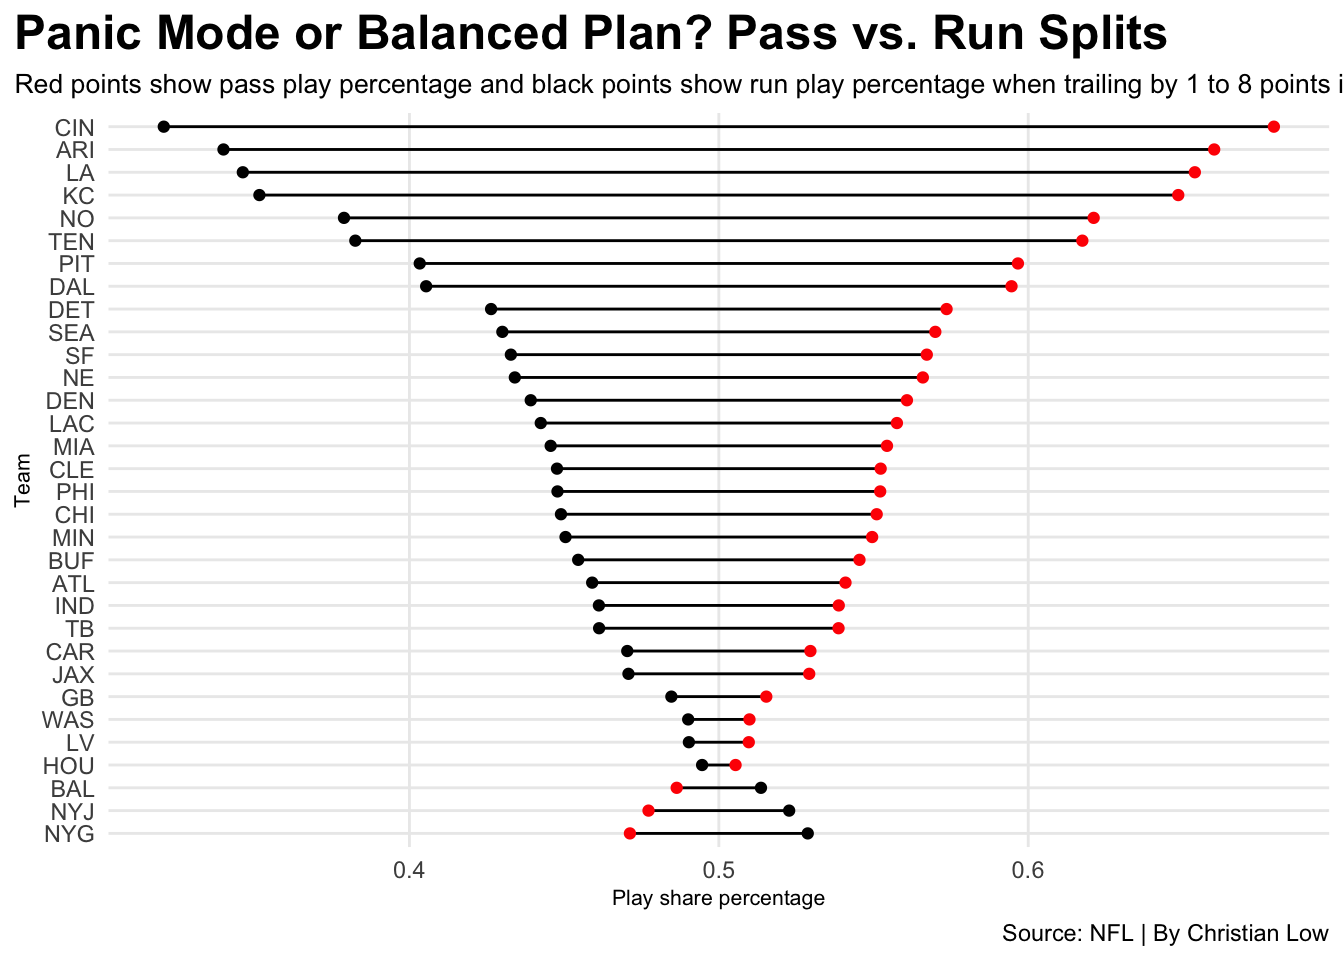
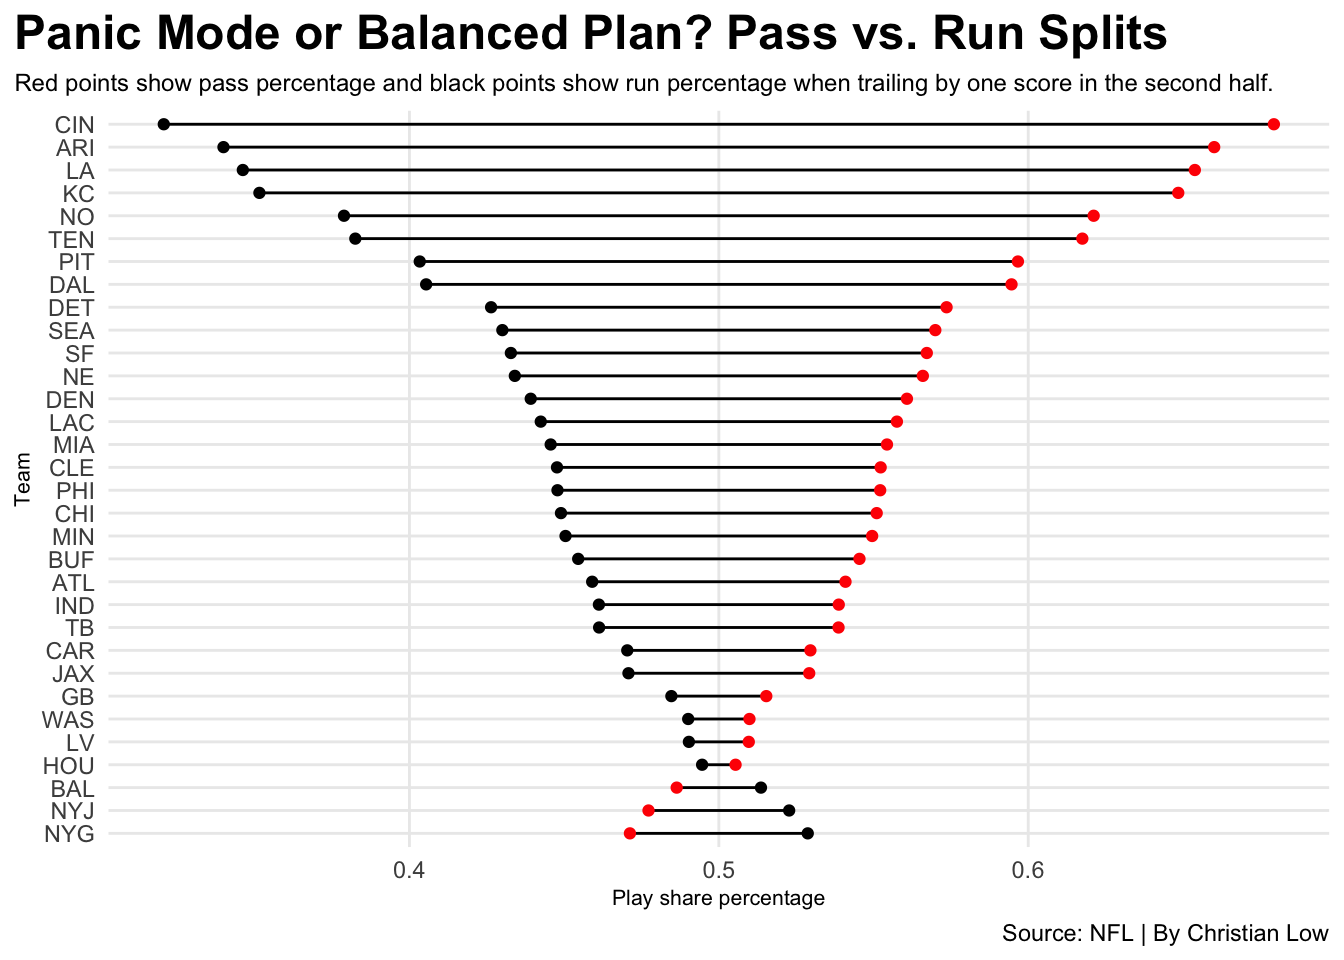
Project 1 done

Changed region(s): [[0.0, 0.0625, 1.0, 0.7812], [0.0, 0.4062, 0.0938, 0.625], [0.0312, 0.6562, 0.0625, 0.7188]]

diff --git a/posts/do-nfl-teams-panic-too-early/index.html b/posts/do-nfl-teams-panic-too-early/index.html
@@ -189,7 +189,6 @@ pre > code.sourceCode > span > a:first-child::before { text-decoration: underlin
 
 
 
-<p>Do NFL Teams Panic Too Early in One-Score Games?</p>
 <p>Every football coach preaches the same thing: stay balanced, establish the run, and control the clock, but in the second half of a one-score game, that plan often disappears. Coaches tend to abandon the ground game as soon as it’s a one-score game entering the third or fourth quarter, even when there is still time left to stick to the game plan.</p>
 <p>Looking at NFL play-by-play data from games within one score in the second half shows how much teams abandon the run and rely heavily on the passing game.</p>
 <p>The Second Half Split</p>
@@ -272,14 +271,14 @@ pre > code.sourceCode > span > a:first-child::before { text-decoration: underlin
 <span id="cb1-73"><a href="#cb1-73" aria-hidden="true" tabindex="-1"></a>    <span class="at">x=</span><span class="st">"Play share percentage"</span>, </span>
 <span id="cb1-74"><a href="#cb1-74" aria-hidden="true" tabindex="-1"></a>    <span class="at">y=</span><span class="st">"Team"</span>, </span>
 <span id="cb1-75"><a href="#cb1-75" aria-hidden="true" tabindex="-1"></a>    <span class="at">title=</span><span class="st">"Panic Mode or Balanced Plan? Pass vs. Run Splits"</span>, </span>
-<span id="cb1-76"><a href="#cb1-76" aria-hidden="true" tabindex="-1"></a>    <span class="at">subtitle=</span><span class="st">"Red points show pass play percentage and black points show run play percentage when trailing by 1 to 8 points in the second half.."</span>, </span>
+<span id="cb1-76"><a href="#cb1-76" aria-hidden="true" tabindex="-1"></a>    <span class="at">subtitle=</span><span class="st">"Red points show pass percentage and black points show run percentage when trailing by one score in the second half."</span>, </span>
 <span id="cb1-77"><a href="#cb1-77" aria-hidden="true" tabindex="-1"></a>    <span class="at">caption=</span><span class="st">"Source: NFL | By Christian Low"</span></span>
 <span id="cb1-78"><a href="#cb1-78" aria-hidden="true" tabindex="-1"></a>    ) <span class="sc">+</span></span>
 <span id="cb1-79"><a href="#cb1-79" aria-hidden="true" tabindex="-1"></a>  <span class="fu">theme_minimal</span>() <span class="sc">+</span> </span>
 <span id="cb1-80"><a href="#cb1-80" aria-hidden="true" tabindex="-1"></a>  <span class="fu">theme</span>(</span>
 <span id="cb1-81"><a href="#cb1-81" aria-hidden="true" tabindex="-1"></a>    <span class="at">plot.title =</span> <span class="fu">element_text</span>(<span class="at">size =</span> <span class="dv">18</span>, <span class="at">face =</span> <span class="st">"bold"</span>),</span>
 <span id="cb1-82"><a href="#cb1-82" aria-hidden="true" tabindex="-1"></a>    <span class="at">axis.title =</span> <span class="fu">element_text</span>(<span class="at">size =</span> <span class="dv">8</span>), </span>
-<span id="cb1-83"><a href="#cb1-83" aria-hidden="true" tabindex="-1"></a>    <span class="at">plot.subtitle =</span> <span class="fu">element_text</span>(<span class="at">size=</span><span class="dv">10</span>), </span>
+<span id="cb1-83"><a href="#cb1-83" aria-hidden="true" tabindex="-1"></a>    <span class="at">plot.subtitle =</span> <span class="fu">element_text</span>(<span class="at">size=</span><span class="dv">9</span>), </span>
 <span id="cb1-84"><a href="#cb1-84" aria-hidden="true" tabindex="-1"></a>    <span class="at">panel.grid.minor =</span> <span class="fu">element_blank</span>(),</span>
 <span id="cb1-85"><a href="#cb1-85" aria-hidden="true" tabindex="-1"></a>    <span class="at">plot.title.position =</span> <span class="st">"plot"</span></span>
 <span id="cb1-86"><a href="#cb1-86" aria-hidden="true" tabindex="-1"></a>    ) </span></code></pre></div><button title="Copy to Clipboard" class="code-copy-button"><i class="bi"></i></button></div>
@@ -292,7 +291,7 @@ pre > code.sourceCode > span > a:first-child::before { text-decoration: underlin
 </div>
 </div>
 </div>
-<p>Even in contests separated by a touchdown and two-point conversion or less, rushing takes a backseat across the league. While a couple of run-first offenses keep their pass-to-run gap pretty balanced. Most teams push their passing percentage above the 55 and 60 percent mark.</p>
+<p>Even in contests separated by a touchdown and two-point conversion or less, rushing takes a backseat across the league. While a couple of run-first offenses keep their pass-to-run gap pretty balanced, most teams push their passing percentage above the 55 and 60 percent mark.</p>
 <p>Shifting From Season Tendencies</p>
 <p>Comparing a team’s full-season passing rate to its second-half passing rate shows it isn’t a reflection of pass-happy teams.</p>
 <div class="cell">
@@ -328,7 +327,7 @@ pre > code.sourceCode > span > a:first-child::before { text-decoration: underlin
 <span id="cb2-28"><a href="#cb2-28" aria-hidden="true" tabindex="-1"></a>    <span class="at">x=</span><span class="st">""</span>, </span>
 <span id="cb2-29"><a href="#cb2-29" aria-hidden="true" tabindex="-1"></a>    <span class="at">y=</span><span class="st">"Passing play percentage"</span>, </span>
 <span id="cb2-30"><a href="#cb2-30" aria-hidden="true" tabindex="-1"></a>    <span class="at">title=</span><span class="st">"Abandoning the Ground Game: How Trailing Shifts Play Calls"</span>, </span>
-<span id="cb2-31"><a href="#cb2-31" aria-hidden="true" tabindex="-1"></a>    <span class="at">subtitle=</span><span class="st">"Comparing each team's full-season pass percentage to their pass rate when down 1–8 points in the second half."</span>, </span>
+<span id="cb2-31"><a href="#cb2-31" aria-hidden="true" tabindex="-1"></a>    <span class="at">subtitle=</span><span class="st">"Each team's full-season pass percentage to their pass rate when down one score in the second half."</span>, </span>
 <span id="cb2-32"><a href="#cb2-32" aria-hidden="true" tabindex="-1"></a>    <span class="at">caption=</span><span class="st">"Source: NFL | By Christian Low"</span></span>
 <span id="cb2-33"><a href="#cb2-33" aria-hidden="true" tabindex="-1"></a>    ) <span class="sc">+</span></span>
 <span id="cb2-34"><a href="#cb2-34" aria-hidden="true" tabindex="-1"></a>  <span class="fu">theme_minimal</span>() <span class="sc">+</span> </span>
@@ -380,7 +379,7 @@ pre > code.sourceCode > span > a:first-child::before { text-decoration: underlin
 <span id="cb3-25"><a href="#cb3-25" aria-hidden="true" tabindex="-1"></a>  <span class="fu">theme_minimal</span>() <span class="sc">+</span> </span>
 <span id="cb3-26"><a href="#cb3-26" aria-hidden="true" tabindex="-1"></a>  <span class="fu">labs</span>(</span>
 <span id="cb3-27"><a href="#cb3-27" aria-hidden="true" tabindex="-1"></a>    <span class="at">x=</span><span class="st">"Team"</span>, </span>
-<span id="cb3-28"><a href="#cb3-28" aria-hidden="true" tabindex="-1"></a>    <span class="at">y=</span><span class="st">"Total offensive plays"</span>, </span>
+<span id="cb3-28"><a href="#cb3-28" aria-hidden="true" tabindex="-1"></a>    <span class="at">y=</span><span class="st">"Total offensive plays"</span>,</span>
 <span id="cb3-29"><a href="#cb3-29" aria-hidden="true" tabindex="-1"></a>    <span class="at">title=</span><span class="st">"Full-Season Play Volume"</span>, </span>
 <span id="cb3-30"><a href="#cb3-30" aria-hidden="true" tabindex="-1"></a>    <span class="at">subtitle=</span><span class="st">"Total offensive plays including pass and run."</span>, </span>
 <span id="cb3-31"><a href="#cb3-31" aria-hidden="true" tabindex="-1"></a>    <span class="at">caption=</span><span class="st">""</span></span>

diff --git a/index.html b/index.html
@@ -233,7 +233,7 @@ Harlow Malloc
 </a>
 </div>
 </div>
-<div class="quarto-post image-right" data-index="1" data-categories="Zm9vdGJhbGwlMkNzdXBlcmJvd2wlMkNuZmw=" data-listing-date-sort="1793599200000" data-listing-file-modified-sort="1794589368871" data-listing-date-modified-sort="NaN" data-listing-reading-time-sort="7" data-listing-word-count-sort="1324">
+<div class="quarto-post image-right" data-index="1" data-categories="Zm9vdGJhbGwlMkNzdXBlcmJvd2wlMkNuZmw=" data-listing-date-sort="1793599200000" data-listing-file-modified-sort="1794591206116" data-listing-date-modified-sort="NaN" data-listing-reading-time-sort="7" data-listing-word-count-sort="1310">
 <div class="thumbnail"><a href="./posts/do-nfl-teams-panic-too-early/index.html" class="no-external-icon">
 
 <img loading="lazy" src="./posts/do-nfl-teams-panic-too-early/image.png" class="thumbnail-image">
@@ -254,7 +254,7 @@ Harlow Malloc
 </div>
 <div class="listing-description">
 <a href="./posts/do-nfl-teams-panic-too-early/index.html" class="no-external-icon">
-Do NFL Teams Panic Too Early in One-Score Games?
+Every football coach preaches the same thing: stay balanced, establish the run, and control the clock, but in the second half of a one-score game, that plan often…
 </a>
 </div>
 </div>
